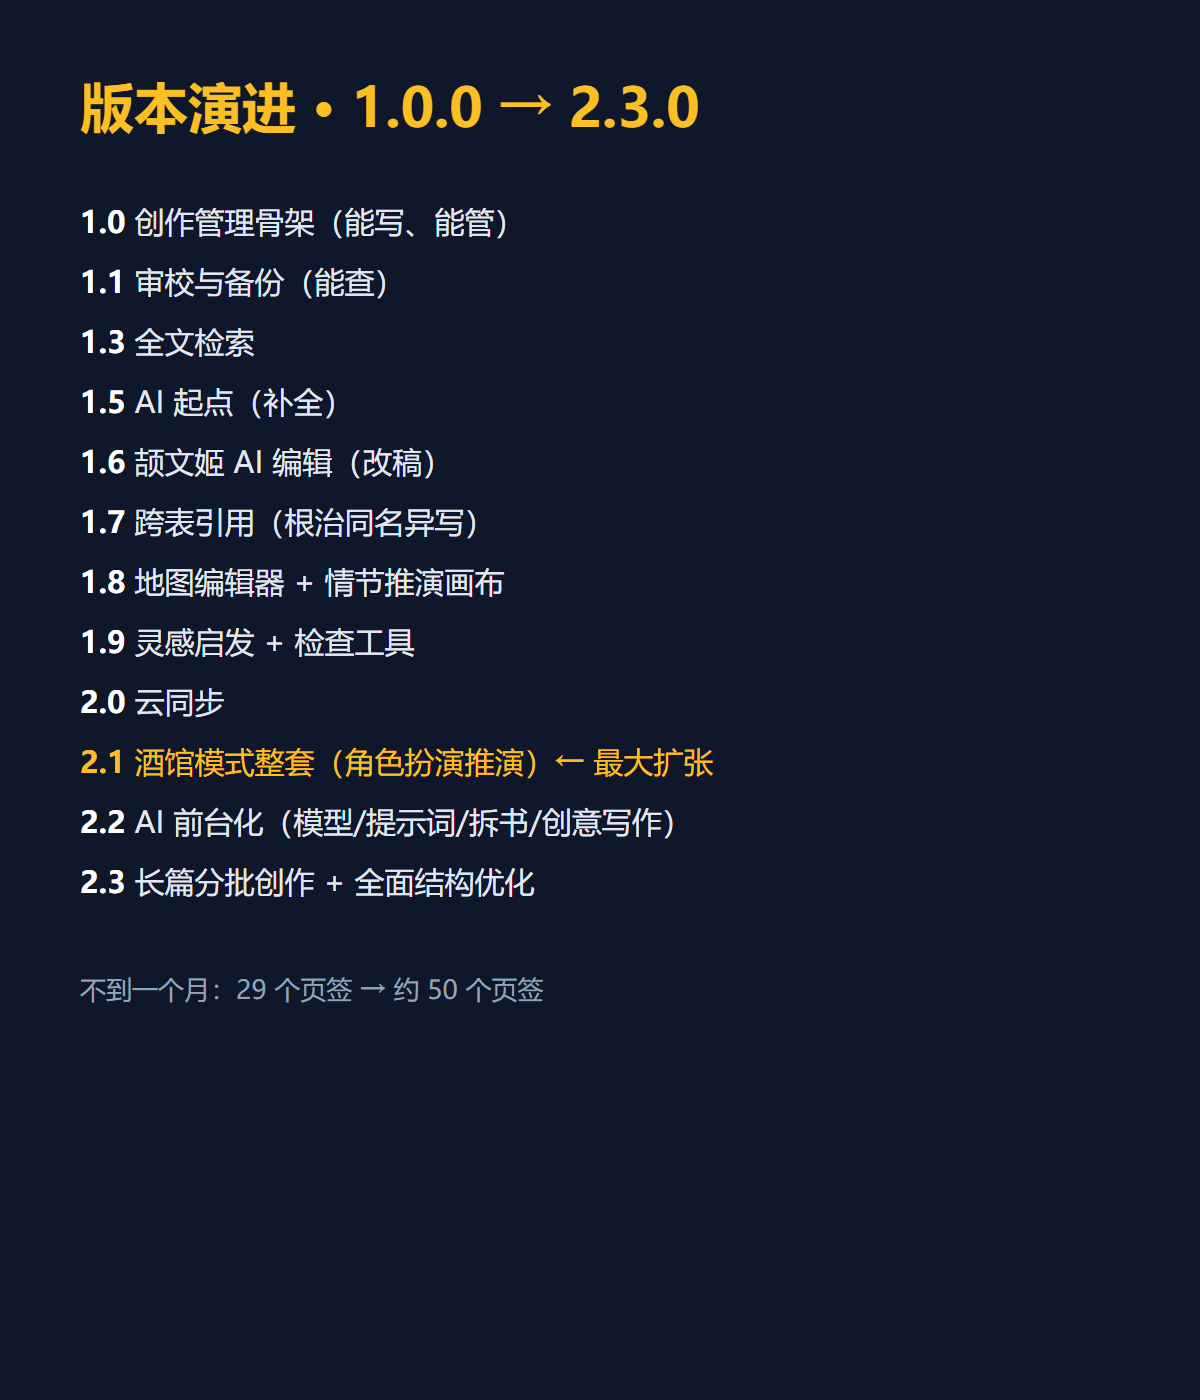
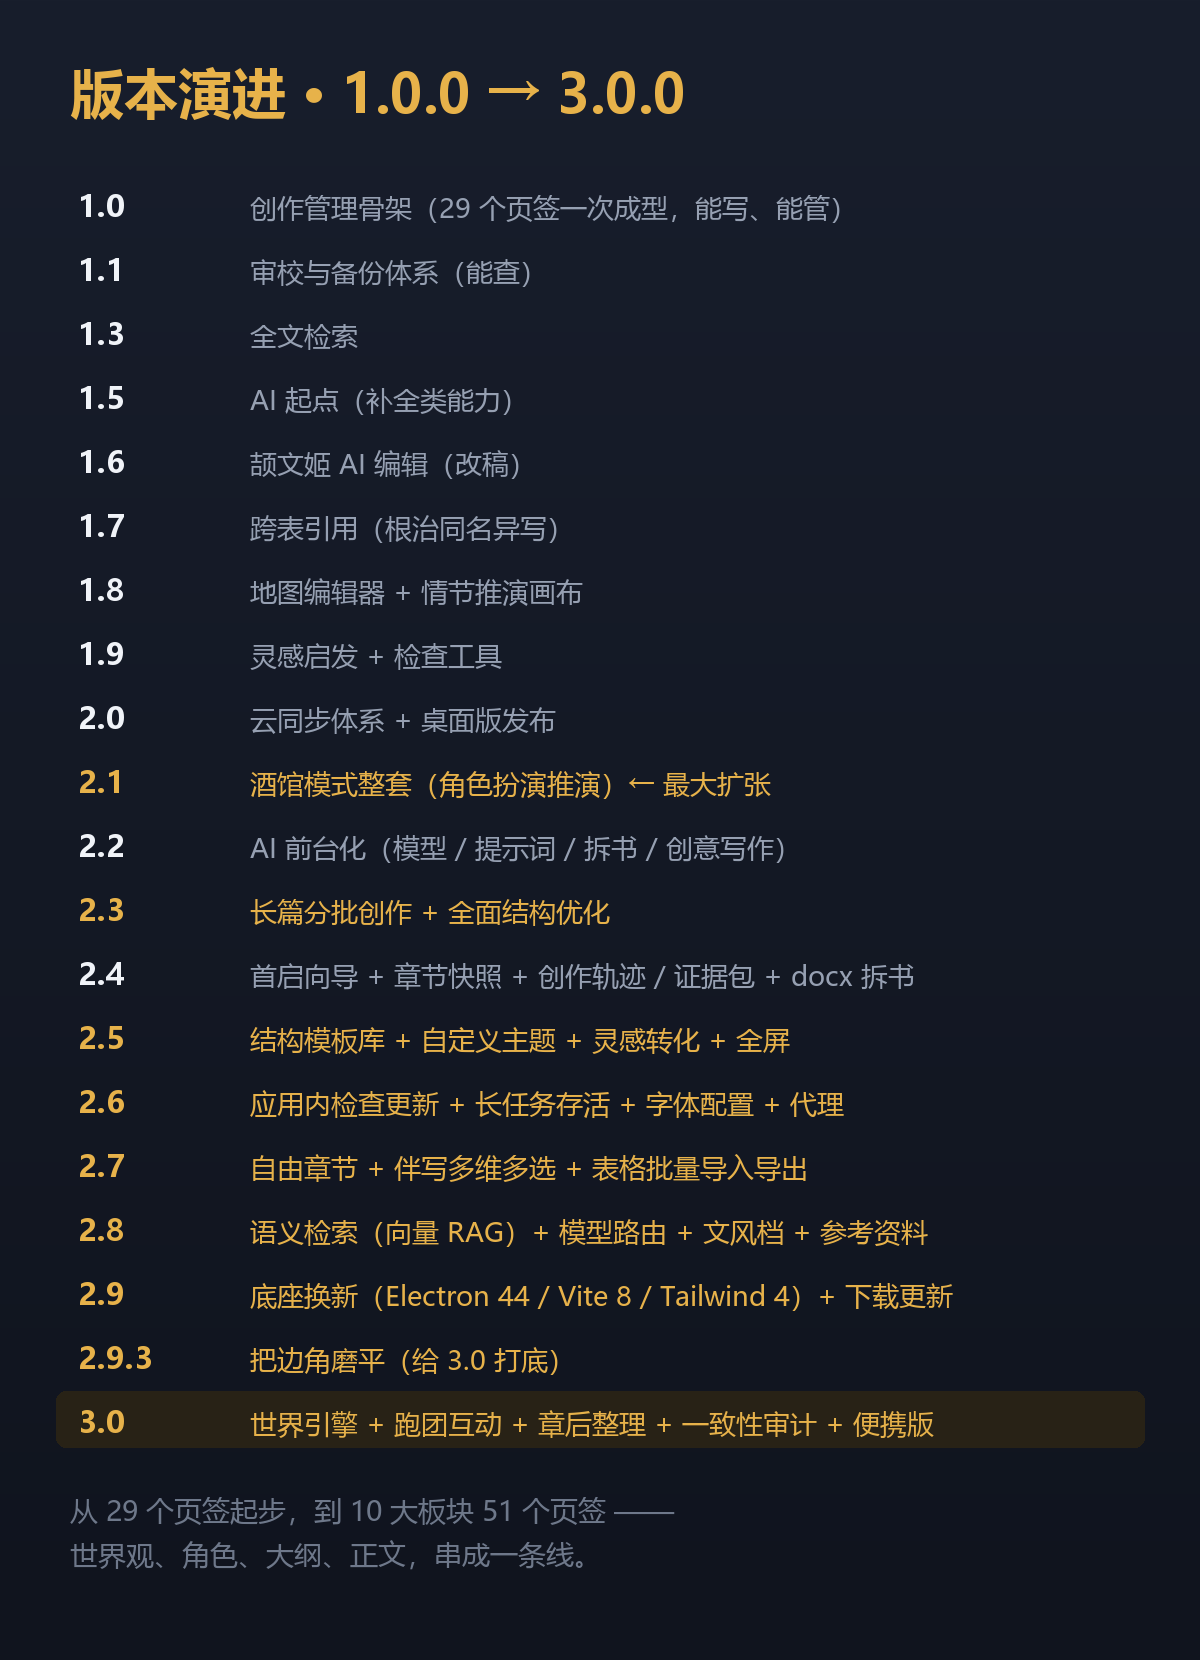
docs(screenshots): 3.0 对外截图全套重制（界面 7 张 + 信息图 2 张）
背景：原截图摄于 2.8.0 期间，封面/版本演进图仍写 2.3.0，
界面状态栏也印 v2.3.0，README 主页观感过时。

- 界面截图 7 张（1920x1080，真 Chromium 驱动 3.0 dev server）：
  project-center / writing-panel / editor / characters /
  relations / outline / tavern，全部显示 v3.0.0
- tavern.png 改用「背景设定」页（示范项目里该页内容最饱满；
  原「剧情推演」页为空）
- 信息图 2 张重制：
  · cover.png → v3.0.0 · 桌面安装版 + 便携版 · 10 板块 51 页签
  · changelog-timeline.png → 1.0.0→3.0.0 全 20 个版本，3.0 高亮
- README 图注同步真实内容（写作面板/正文编辑/角色卡/关系/酒馆）
- 体积 3.3MB → 2.9MB（旧封面 684KB → 156KB）

diff --git a/README.md b/README.md
@@ -167,16 +167,16 @@ npm run build:desktop  # 产物输出到 release/ 目录
 
 <table>
 <tr>
-<td width="50%"><img src="docs/screenshots/writing-panel.png" alt="写作面板" /><br/><sub>写作面板：进度、模型、上手引导</sub></td>
-<td width="50%"><img src="docs/screenshots/editor.png" alt="正文编辑" /><br/><sub>正文编辑与伴写建议</sub></td>
+<td width="50%"><img src="docs/screenshots/writing-panel.png" alt="写作面板" /><br/><sub>写作面板：字数统计、码字日历、分卷进度、创作健康提醒</sub></td>
+<td width="50%"><img src="docs/screenshots/editor.png" alt="正文编辑" /><br/><sub>正文编辑：章节树 + 设定检索 + 正文三栏</sub></td>
 </tr>
 <tr>
-<td><img src="docs/screenshots/characters.png" alt="角色管理" /><br/><sub>角色卡</sub></td>
-<td><img src="docs/screenshots/relations.png" alt="人物关系" /><br/><sub>人物关系</sub></td>
+<td><img src="docs/screenshots/characters.png" alt="角色管理" /><br/><sub>角色卡：档案字段 + 人物立绘</sub></td>
+<td><img src="docs/screenshots/relations.png" alt="人物关系" /><br/><sub>人物关系：关系状态与图谱</sub></td>
 </tr>
 <tr>
 <td><img src="docs/screenshots/outline.png" alt="章节细纲" /><br/><sub>章节细纲</sub></td>
-<td><img src="docs/screenshots/tavern.png" alt="酒馆模式" /><br/><sub>酒馆模式：剧情推演</sub></td>
+<td><img src="docs/screenshots/tavern.png" alt="酒馆模式" /><br/><sub>酒馆模式：背景设定与资料提炼</sub></td>
 </tr>
 </table>
 
